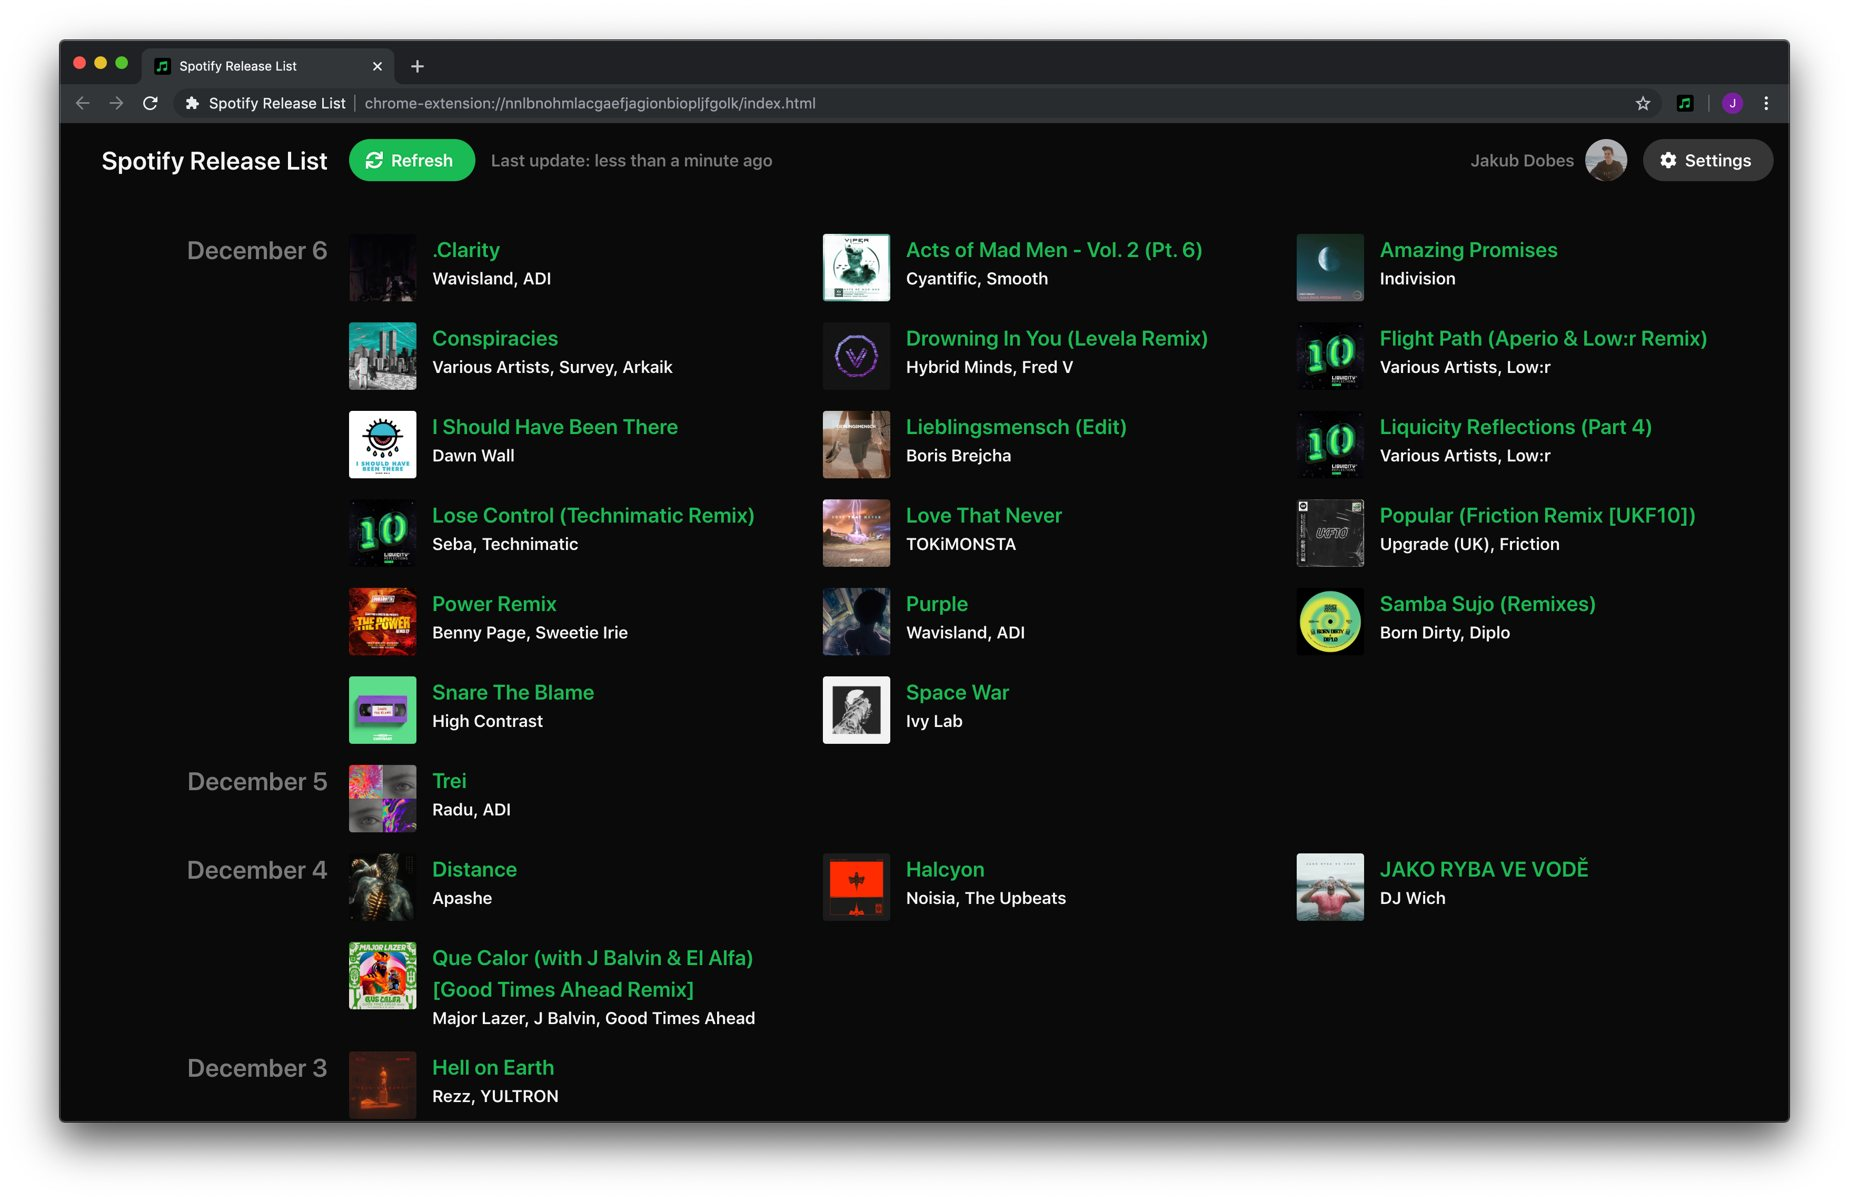
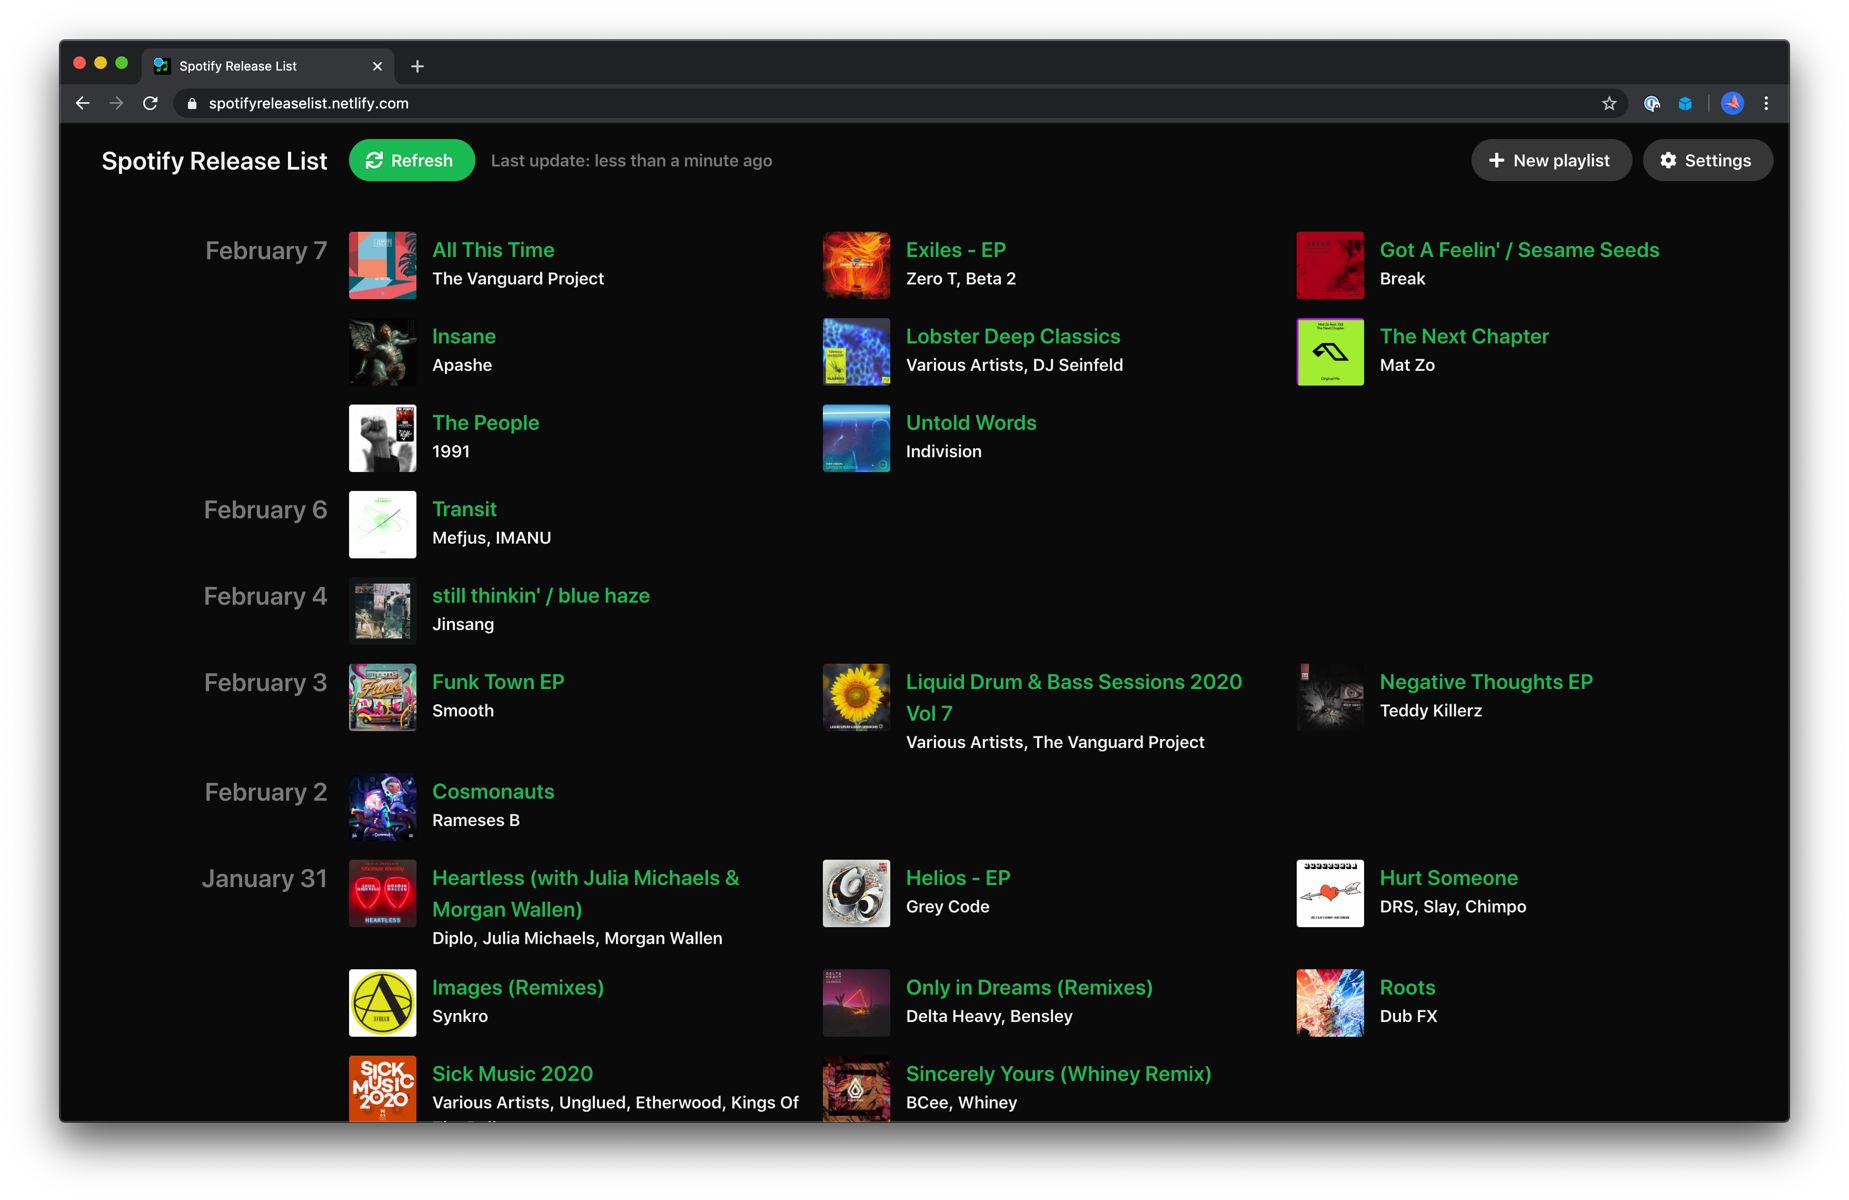
Update readme and screenshot

diff --git a/README.md b/README.md
@@ -6,15 +6,23 @@ https://spotifyreleaselist.netlify.com/
 
 ![screenshot.jpg](https://raw.githubusercontent.com/jakubito/spotify-release-list-web/master/public/screenshot.jpg)
 
-This is hosted version of my [Google Chrome extension](https://github.com/jakubito/spotify-release-list).
+## Features
 
-This project was bootstrapped with [Create React App](https://github.com/facebook/create-react-app).
+- Display releases day by day - you won't miss a thing!
+- Create playlists from releases
+- Client only application - all data is stored locally
+- Completely free to use
 
 ## Installation
 
 1. Install dependencies with `yarn install`
 2. Save app url to `REACT_APP_URL` environment variable
-3. Run `yarn build` to build the app
+3. Save Spotify client ID to `REACT_APP_SPOTIFY_CLIENT_ID` environment variable
+4. Run `yarn start` to run dev server or `yarn build` to build the app
+
+## Bug reporting
+
+If you find a bug, please send me an e-mail to dobes.jakub@gmail.com or open an issue here on github. This project uses Sentry for automatic error reporting but it's always better to have manual bug report.
 
 ## License
 
